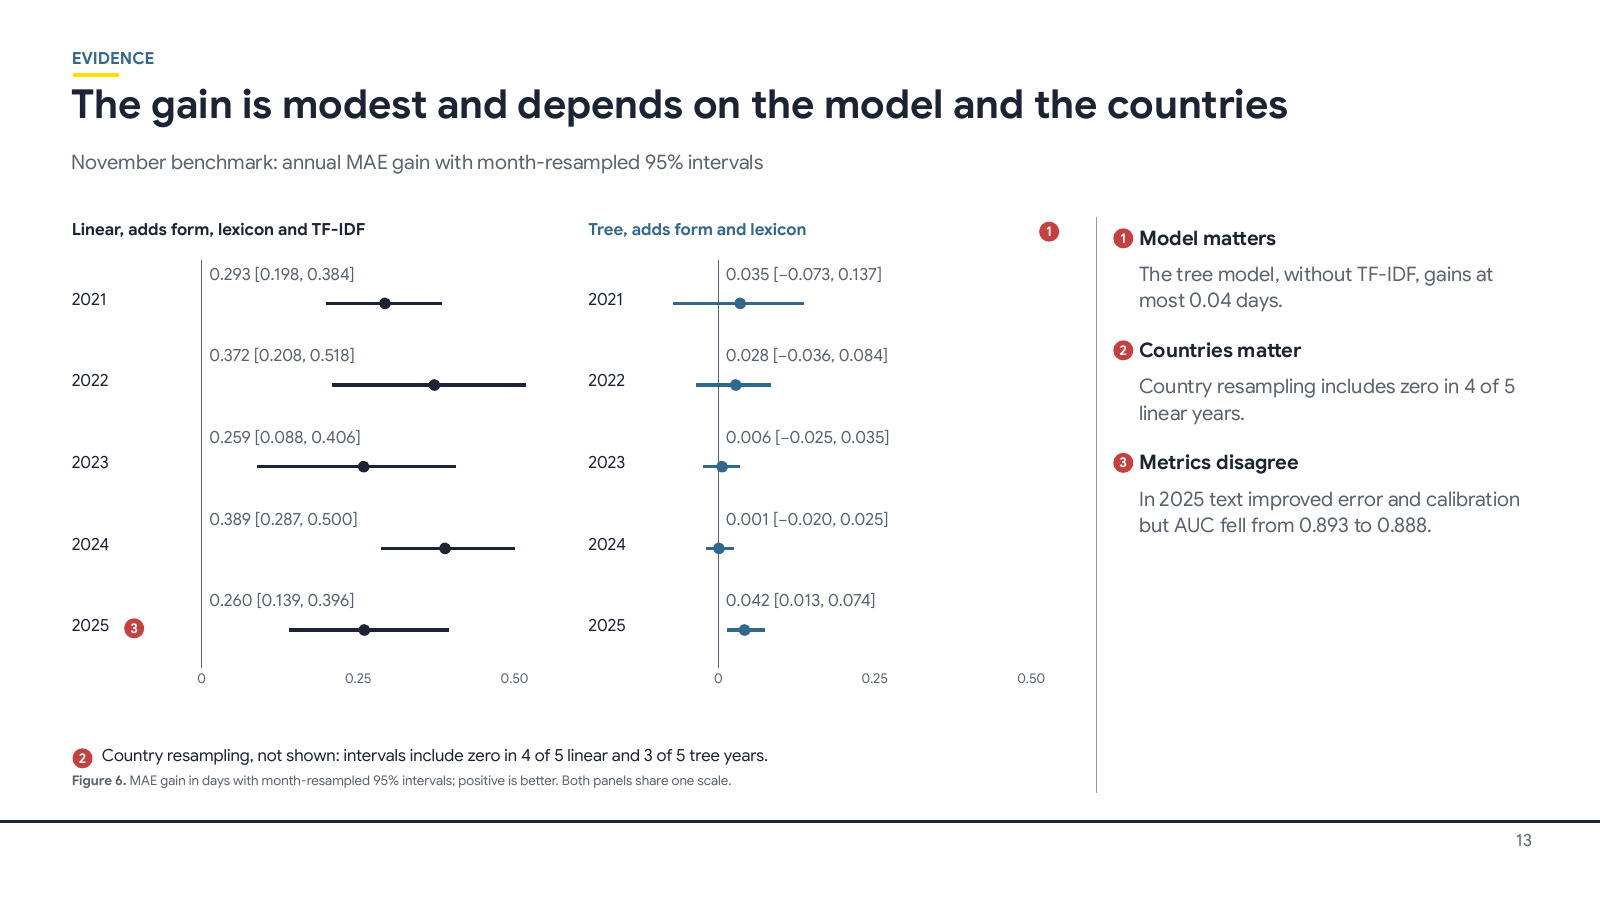
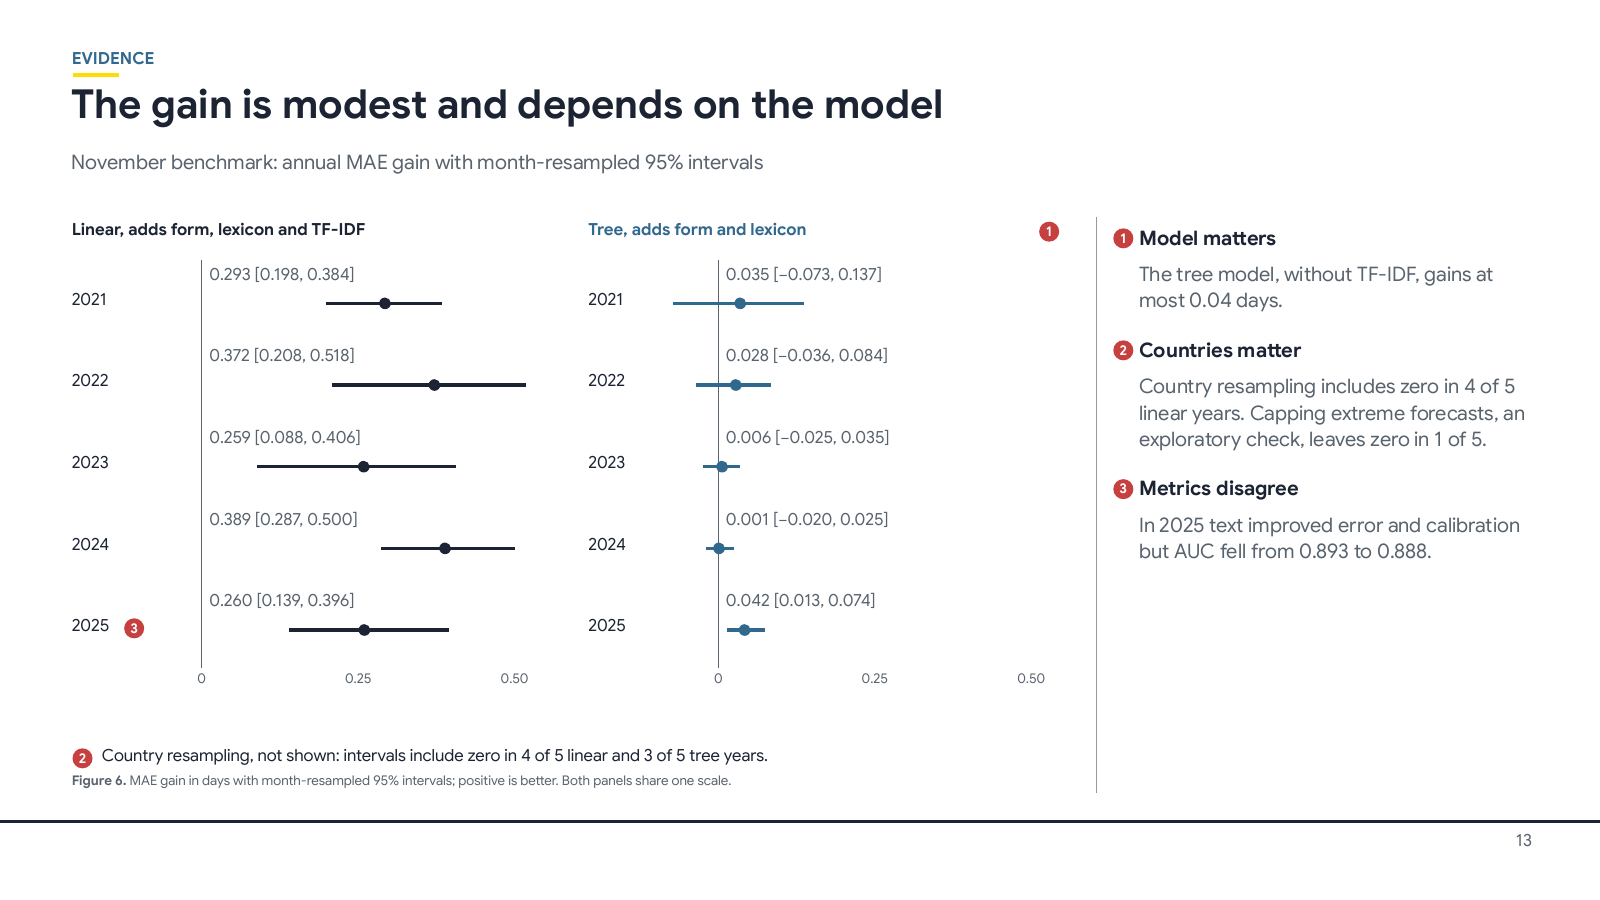
docs(portfolio): add capped-forecast line to slide 13
Edited the live deck in place on Mike's instruction; storyline, markers,
Google-rendered PDF and previews refreshed.

Changed region(s): [[0.6875, 0.4356, 0.9375, 0.6222], [0.5938, 0.0933, 0.8125, 0.1556]]

diff --git a/docs/superpowers/collab-logs/2026-08-17-hackathon-upgrade-collab-log.md b/docs/superpowers/collab-logs/2026-08-17-hackathon-upgrade-collab-log.md
@@ -2578,3 +2578,4 @@ t(4) keeps 21 of 23 bounded results and all five duration verdicts. 48 no-descri
 unseen exact template, which cannot exclude near-duplicates.
 
 **Limits.** No independent review; the effective-country index and t(4) are heuristics; the cap is a diagnostic.
+- **2026-11-08, slide 13 (Mike chose "add the one line"):** edited live deck `1Q7n_sOn_4HL68_Mk-GogDOtS9P_pfPVXLNUeinV7pFM` in place, no rebuild; the slide had no owner edits. Title now "The gain is modest and depends on the model"; the "Countries matter" takeaway adds "Capping extreme forecasts, an exploratory check, leaves zero in 1 of 5." with notes to match, and marker 3 was replaced at the measured heading height. A first attempt inserted the sentence at the wrong position because the CLI ignored the insert index; the column was rewritten from the storyline with the builder's styles. Deck QA passes and the slide was checked at full size.
